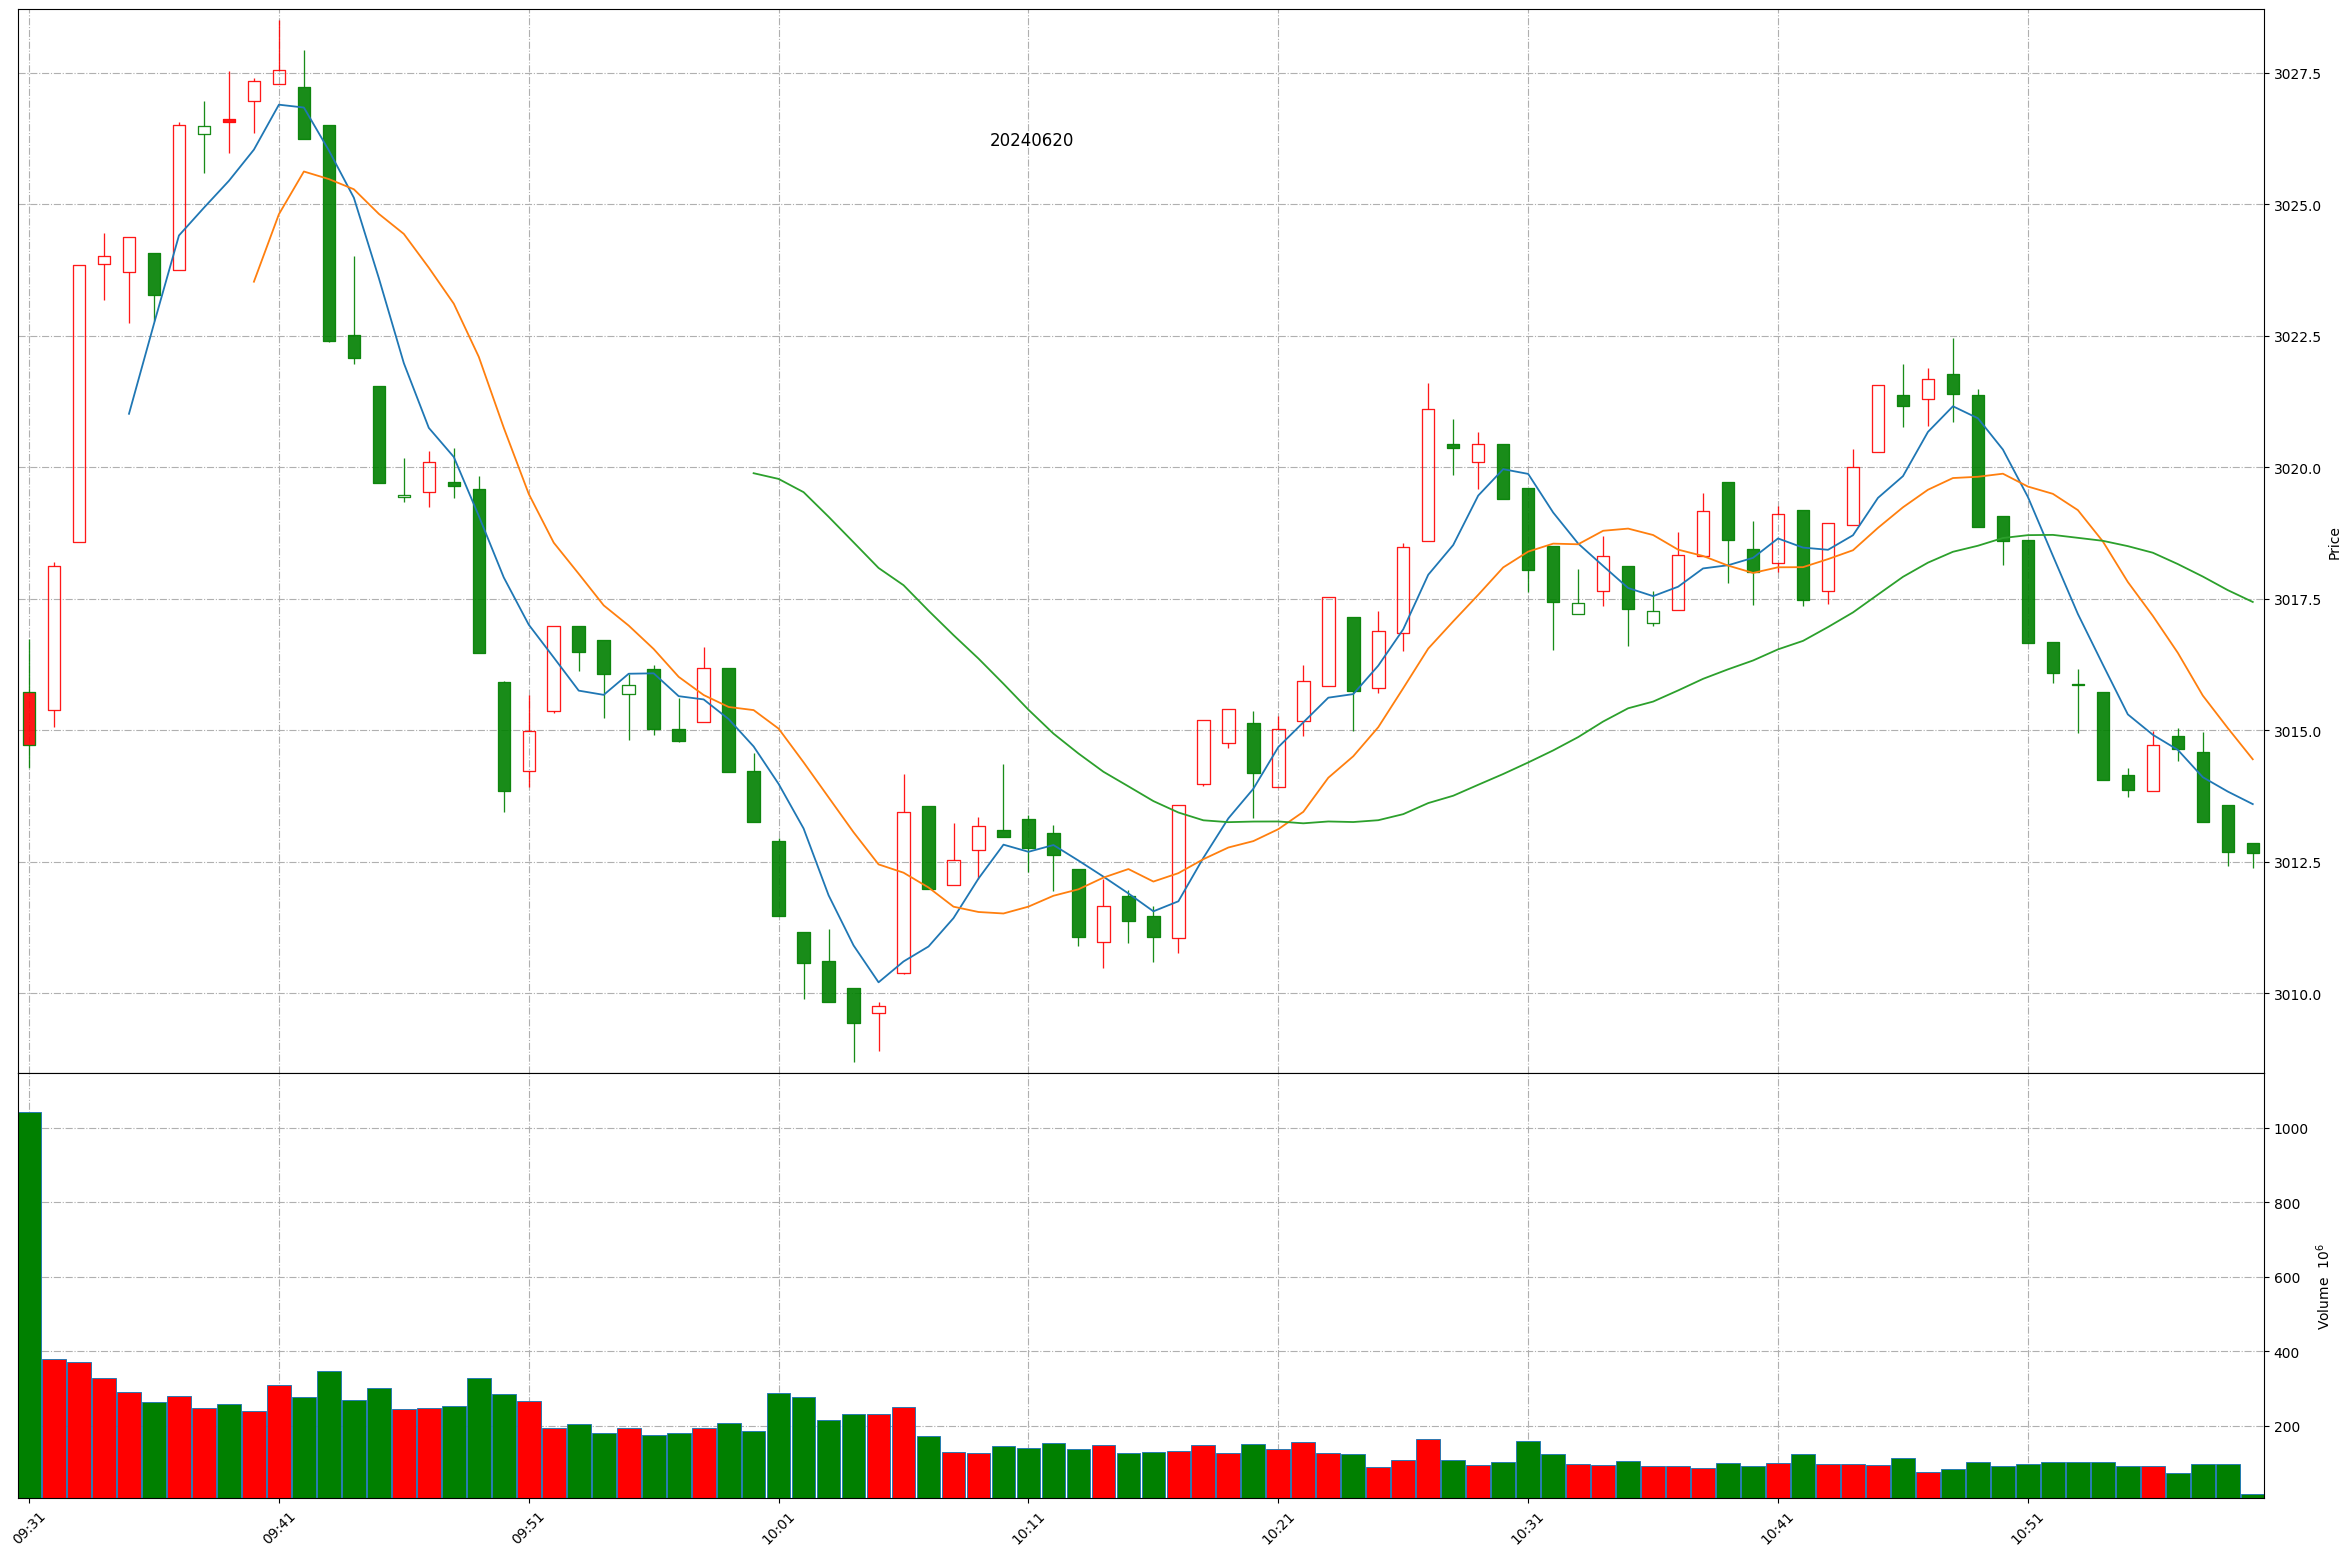
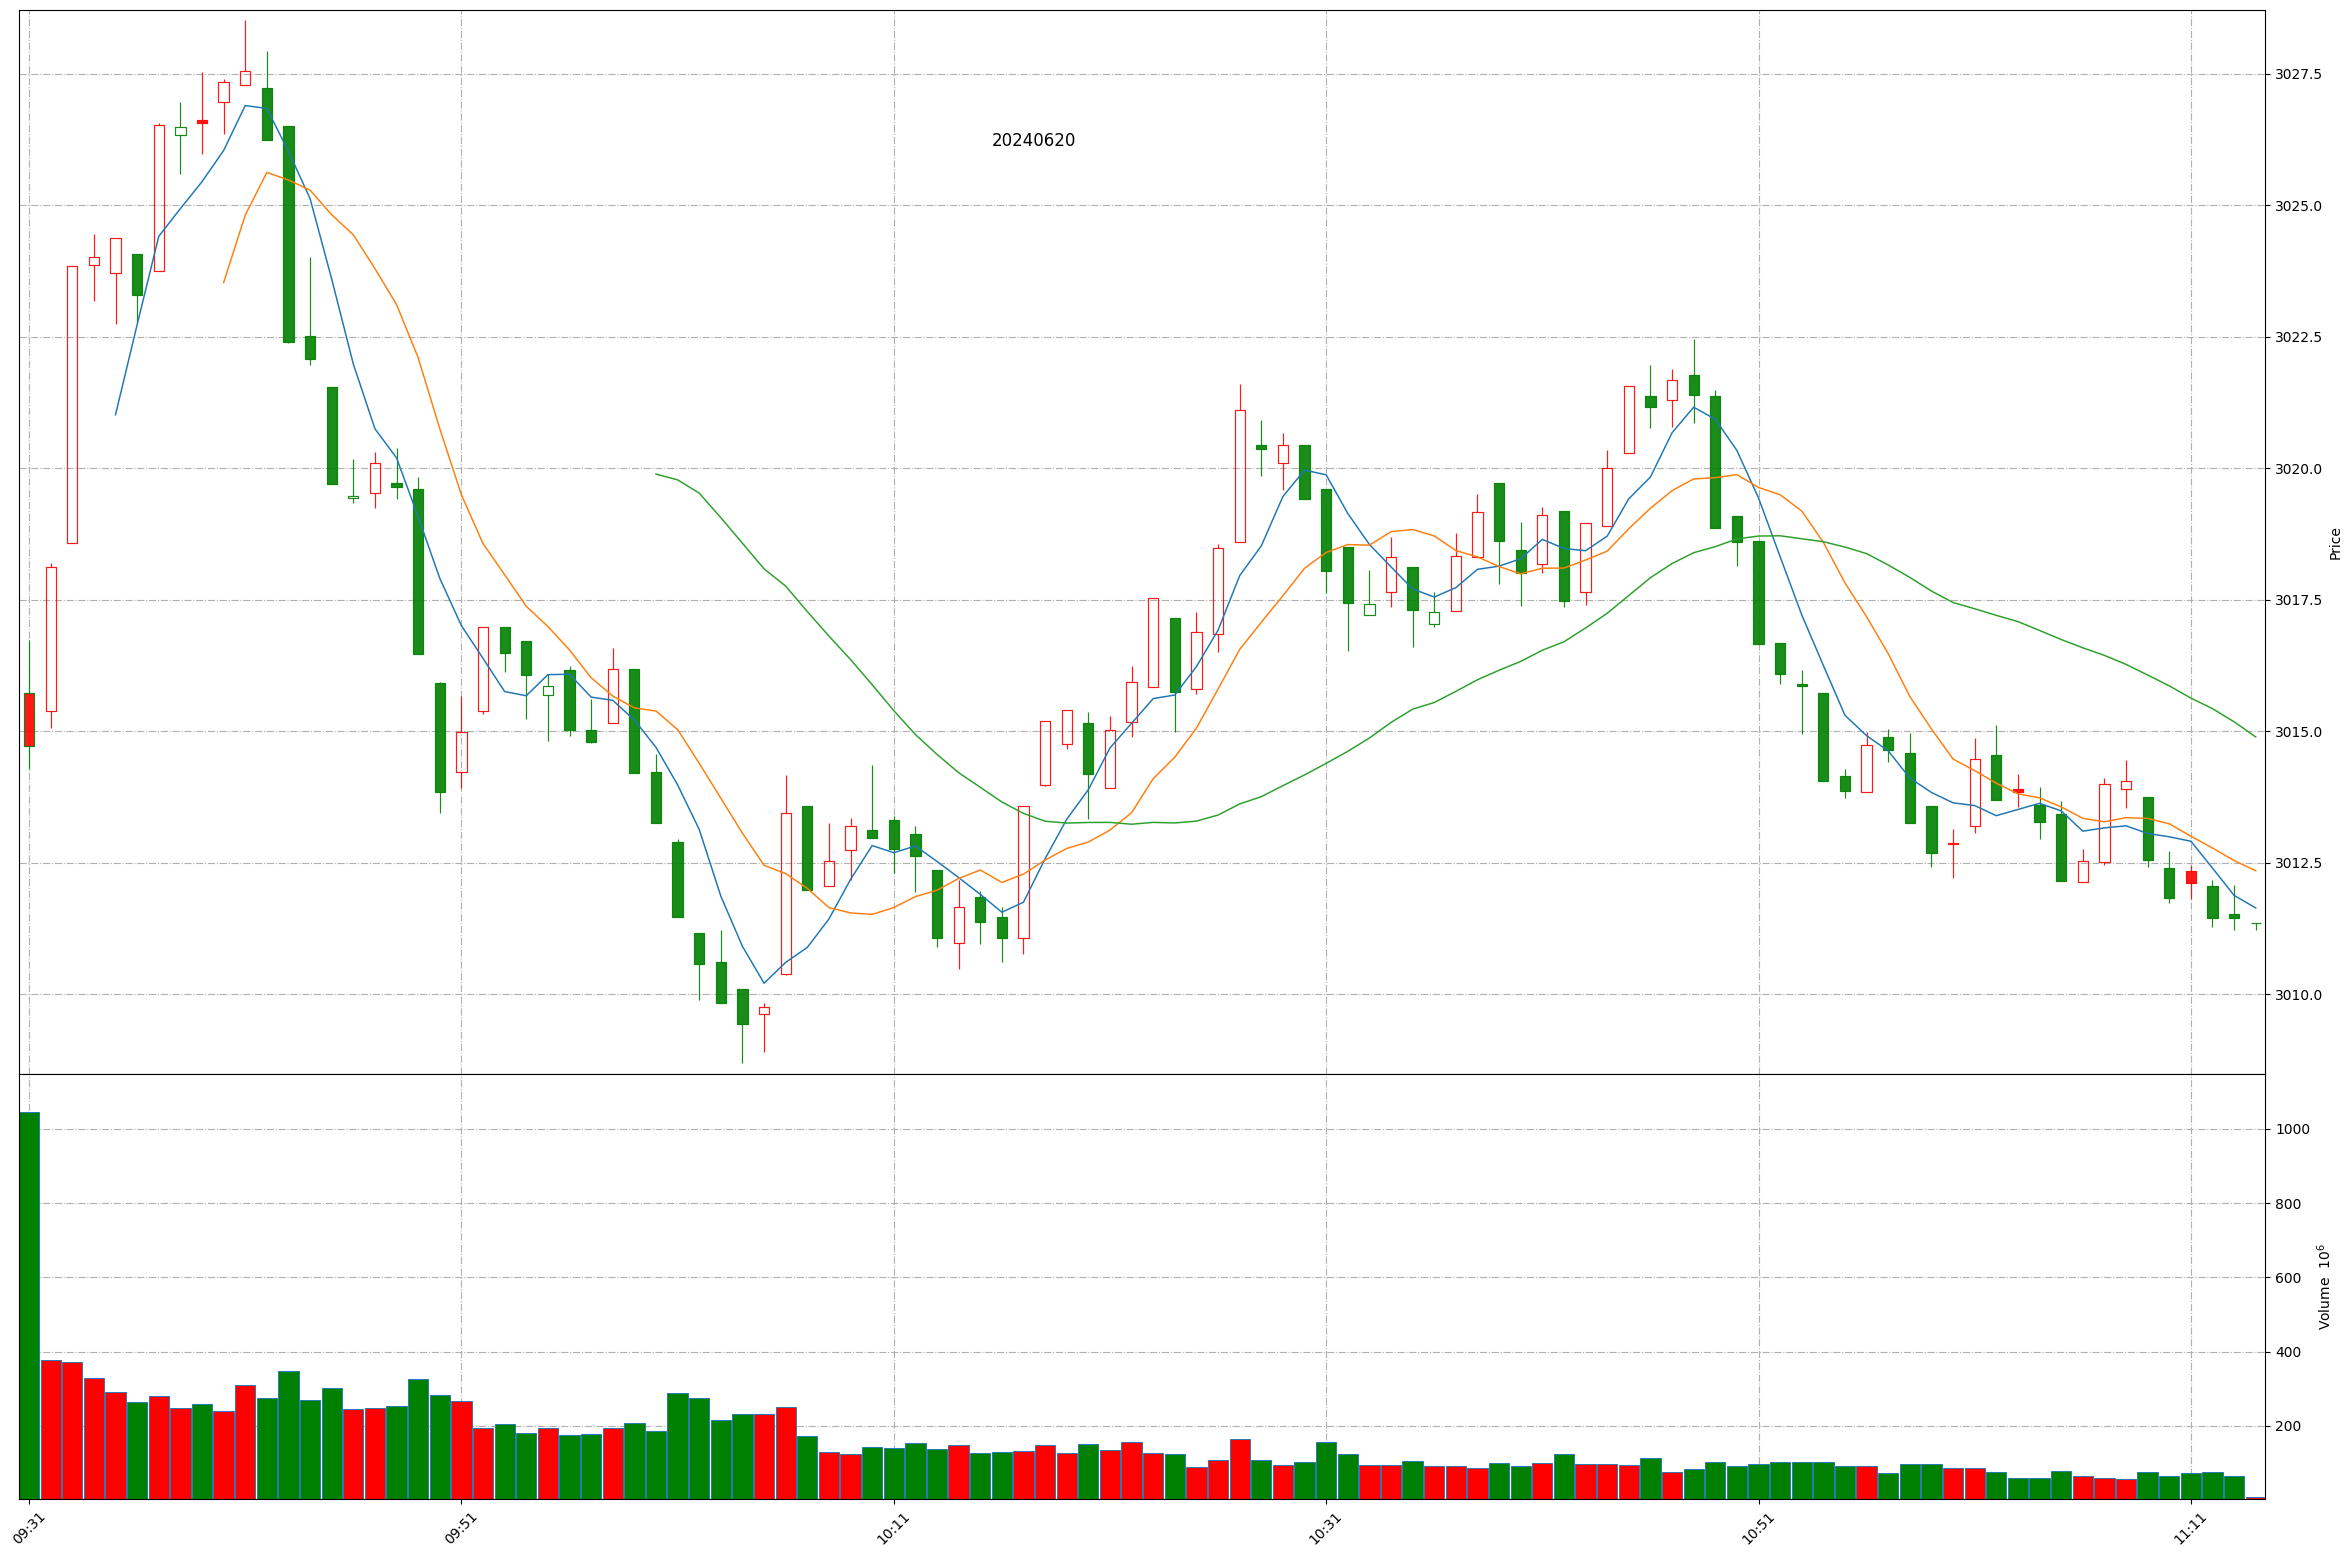
Github action update at 2024-06-20 11:13:26.

diff --git a/README.md b/README.md
@@ -1,11 +1,11 @@
 
 # Daily-A-share-market-quotes 每日 A 股指数（5min 更新）- 20240620
 
-### 上证指数 20240620 10:59
+### 上证指数 20240620 11:13
 ![](./fig/2024/6/20240620-sh000001.png)
 
-### 深证成指 20240620 10:59
+### 深证成指 20240620 11:13
 ![](./fig/2024/6/20240620-sz399001.png)
 
-### 北证50 20240620 10:59
+### 北证50 20240620 11:13
 ![](./fig/2024/6/20240620-bj899050.png)
